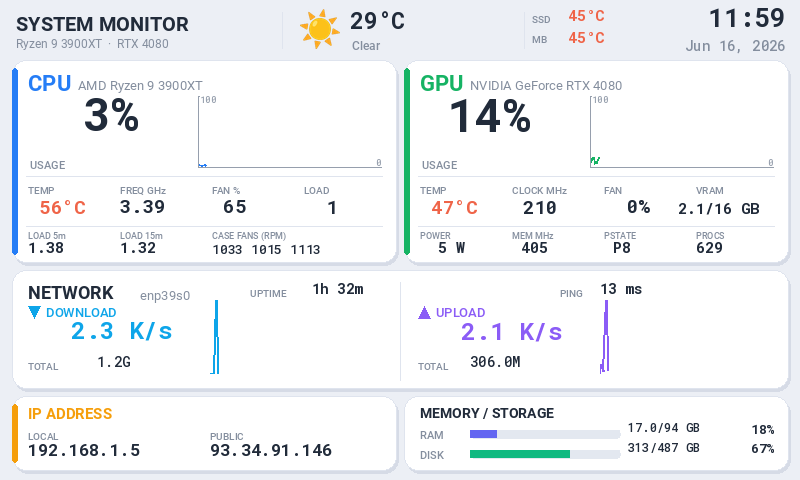
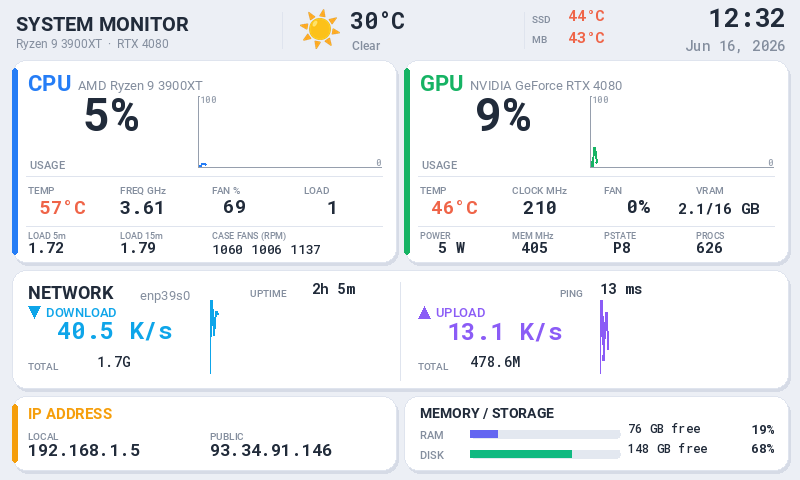
Show free space (GB) for RAM and disk in LightDash5inch
Add RamFree / DiskFree custom sensors (psutil available memory and disk
free) shown as "<n> GB free", replacing the used/total cells next to the
RAM/DISK bars. The percentage next to each bar still shows usage.

diff --git a/library/sensors/sensors_custom.py b/library/sensors/sensors_custom.py
@@ -422,6 +422,36 @@ class DiskUsage(CustomDataSource):
         pass
 
 
+# RAM free space in GB (available memory)
+class RamFree(CustomDataSource):
+    def as_numeric(self) -> float:
+        pass
+
+    def as_string(self) -> str:
+        try:
+            return f"{psutil.virtual_memory().available / 1024 ** 3:.0f} GB free"
+        except Exception:
+            return "--"
+
+    def last_values(self) -> List[float]:
+        pass
+
+
+# Root filesystem free space in GB
+class DiskFree(CustomDataSource):
+    def as_numeric(self) -> float:
+        pass
+
+    def as_string(self) -> str:
+        try:
+            return f"{psutil.disk_usage('/').free / 1000 ** 3:.0f} GB free"
+        except Exception:
+            return "--"
+
+    def last_values(self) -> List[float]:
+        pass
+
+
 # System uptime in compact form (e.g. "3d 5h", "5h 12m", "12m")
 class Uptime(CustomDataSource):
     def as_numeric(self) -> float: